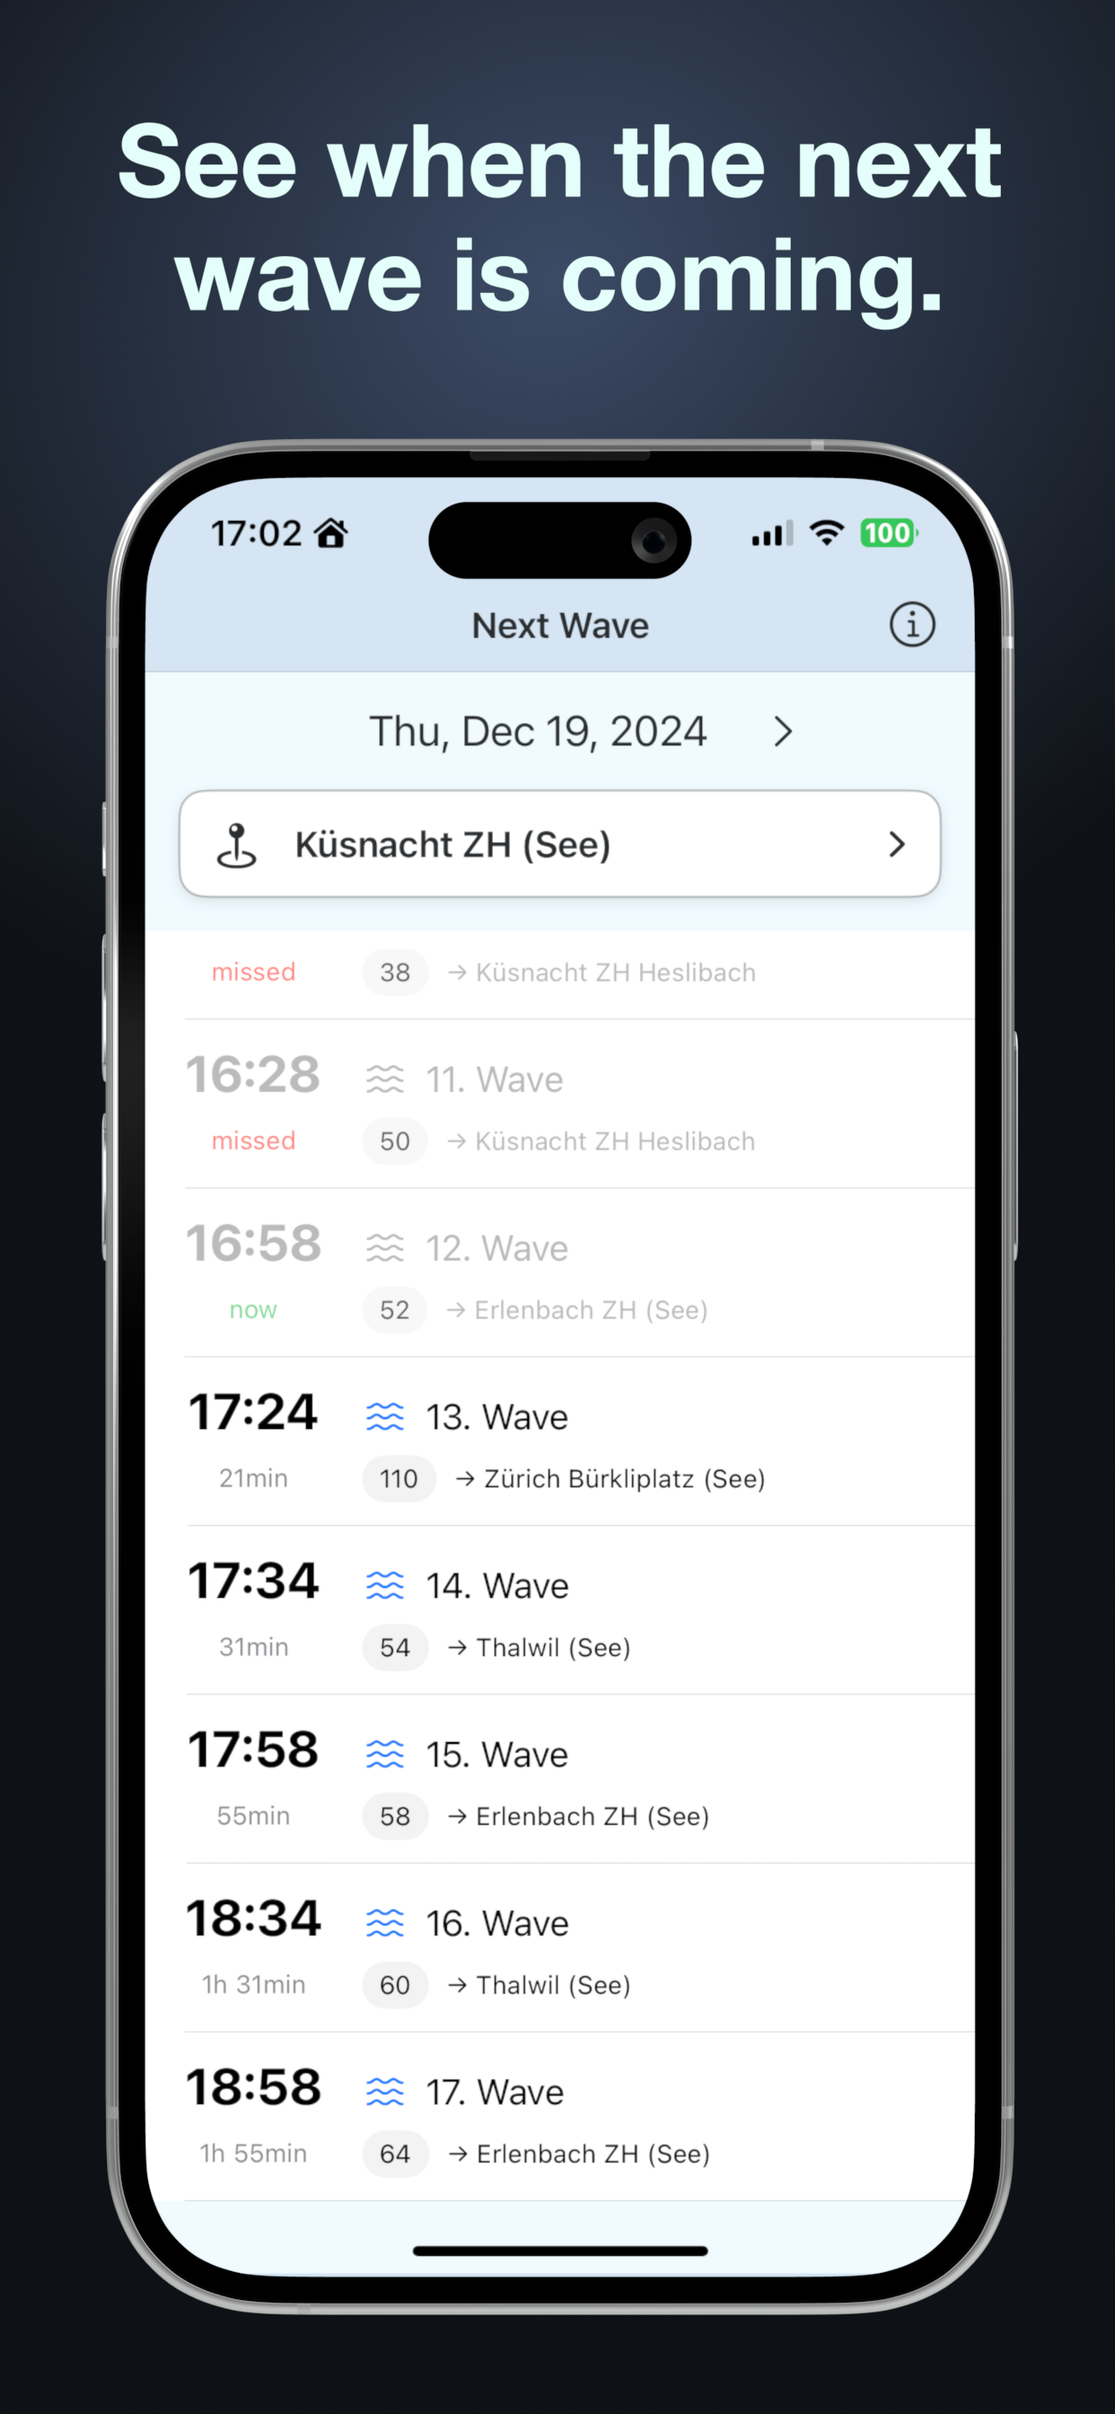
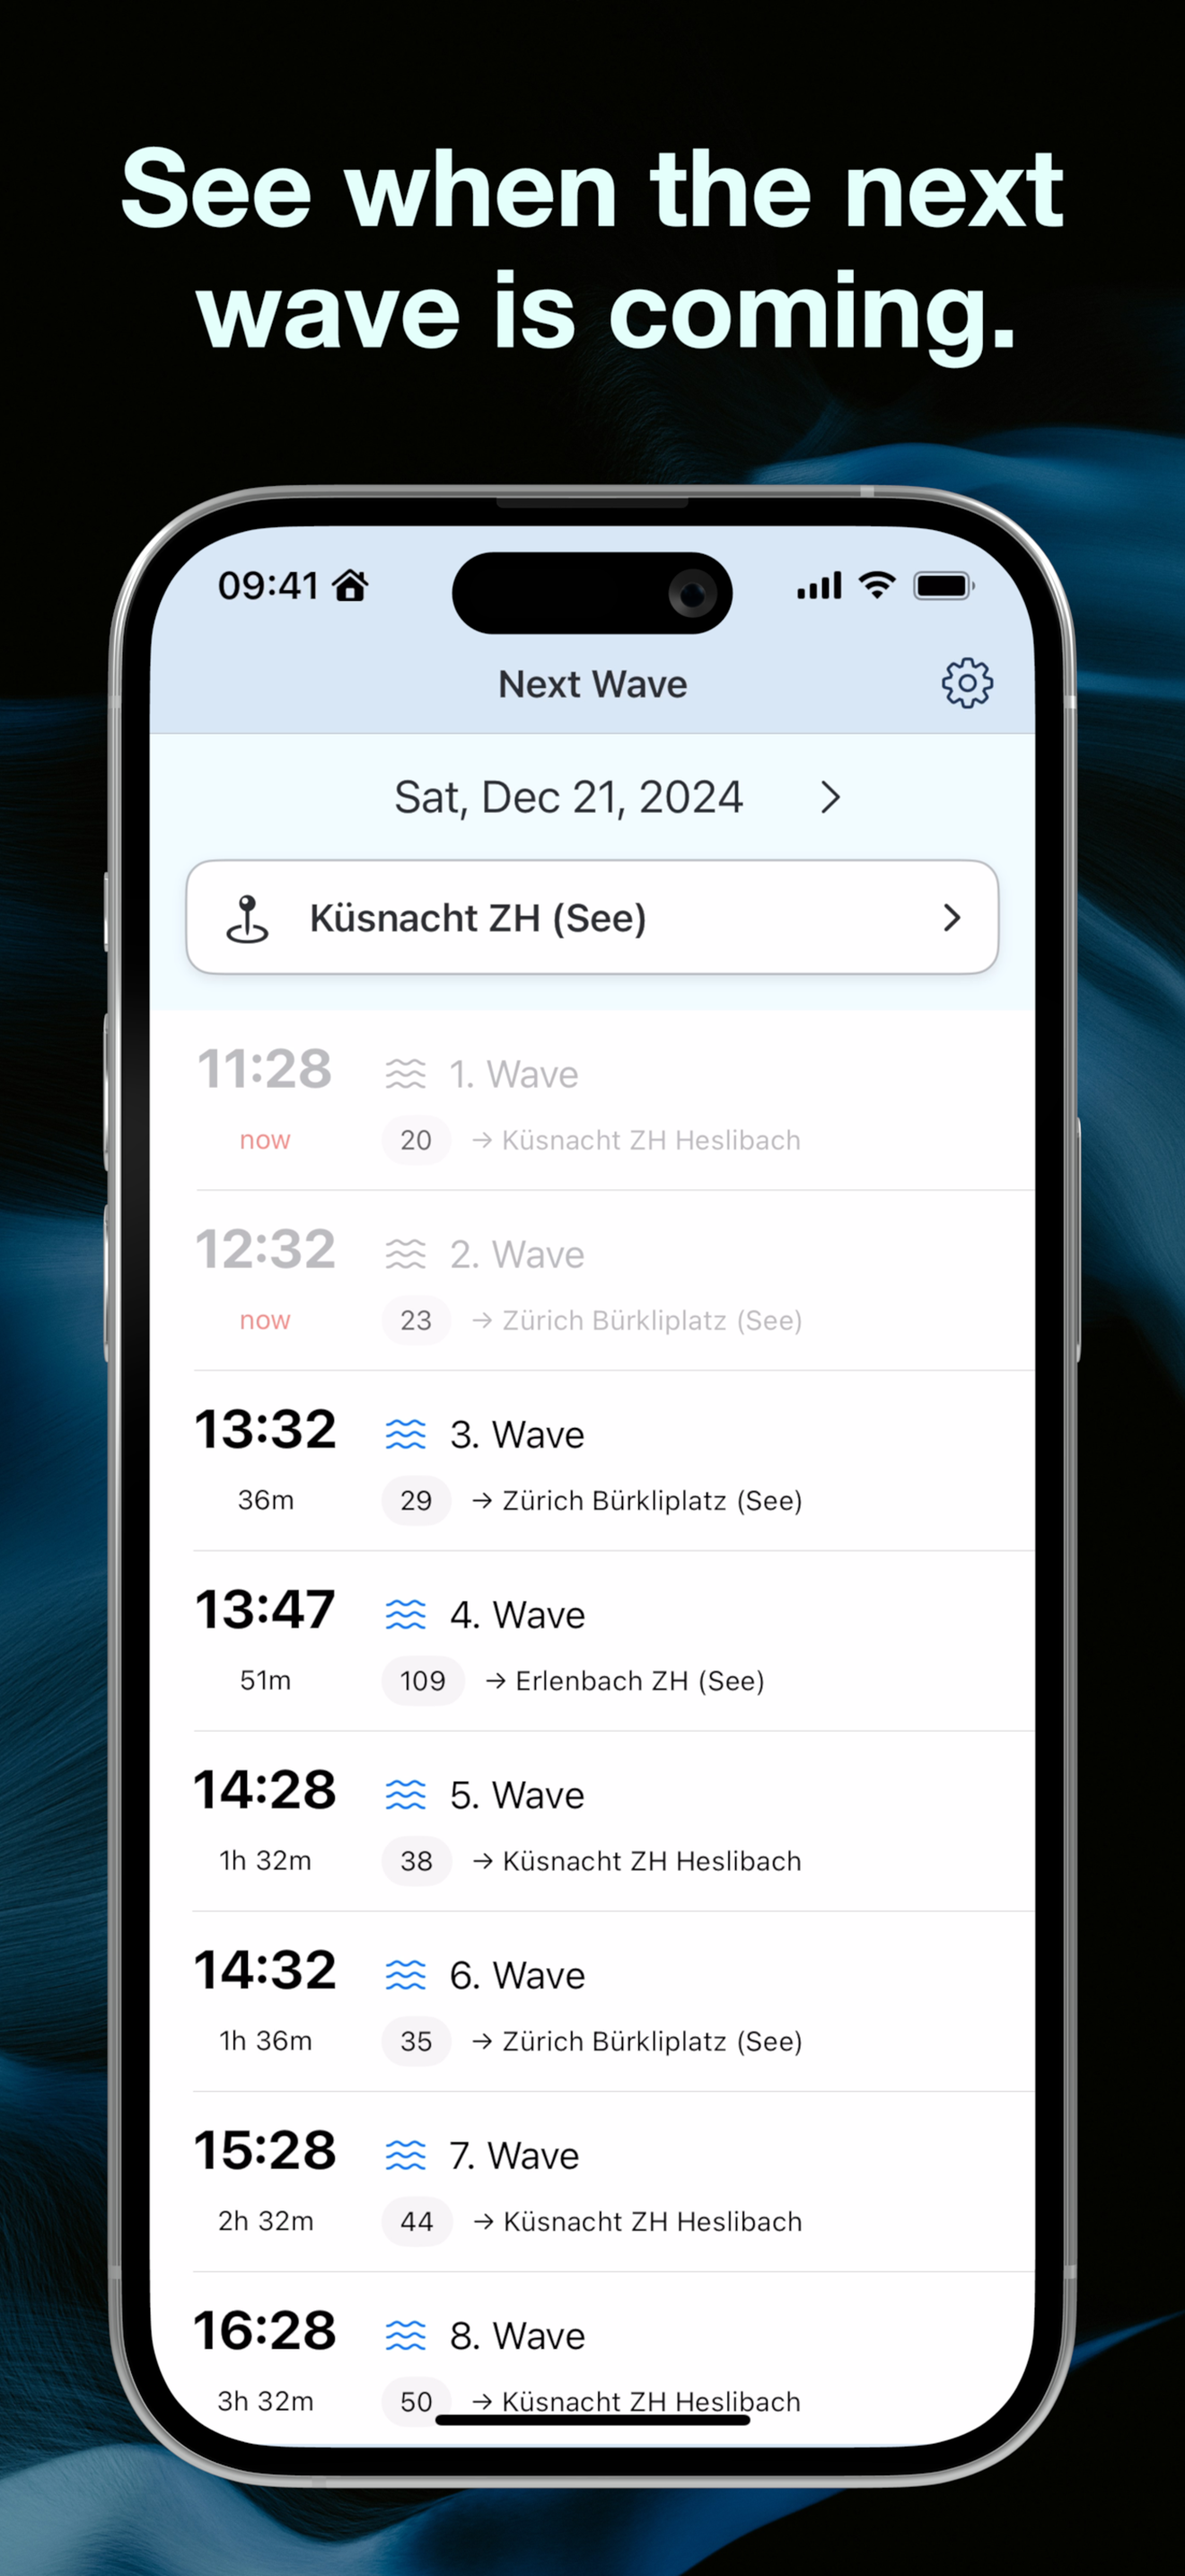
Updated Readme and Screenshots

diff --git a/README.md b/README.md
@@ -2,16 +2,17 @@
 
 Next Wave is an iOS app that helps wake surfers and foilers catch their perfect wave on Lake Zurich by providing real-time boat schedules and smart notifications.
 
-<img src="Screenshots/next-wave1.png" alt="Screenshot1" width="200"><img src="Screenshots/next-wave2.png" alt="Screenshot2" width="200"><img src="Screenshots/next-wave3.png" alt="Screenshot3" width="200"><img src="Screenshots/next-wave4.png" alt="Screenshot3" width="200">
+<img src="Screenshots/next-wave1.png" alt="Screenshot1" width="200"><img src="Screenshots/next-wave2.png" alt="Screenshot2" width="200"><img src="Screenshots/next-wave3.png" alt="Screenshot3" width="200"><img src="Screenshots/next-wave4.png" alt="Screenshot3" width="200"><img src="Screenshots/next-wave5.png" alt="Screenshot3" width="200">
 
 ## Features
 
 - 🌊 Real-time boat schedule tracking
-- 🔔 Smart notifications 5 minutes before waves
+- 🔔 Smart notifications 3,5,a0 or 15 minutes before waves
 - 📍 Easy spot selection on Swiss lakes
 - 🎯 Precise wave timing information
-- 🔊 Custom boat horn notifications
+- 🔊 Custom sound notifications
 - 🎨 Clean, intuitive interface
+- 📱 Light & Dark Mode
 
 ## Technical Details
 
